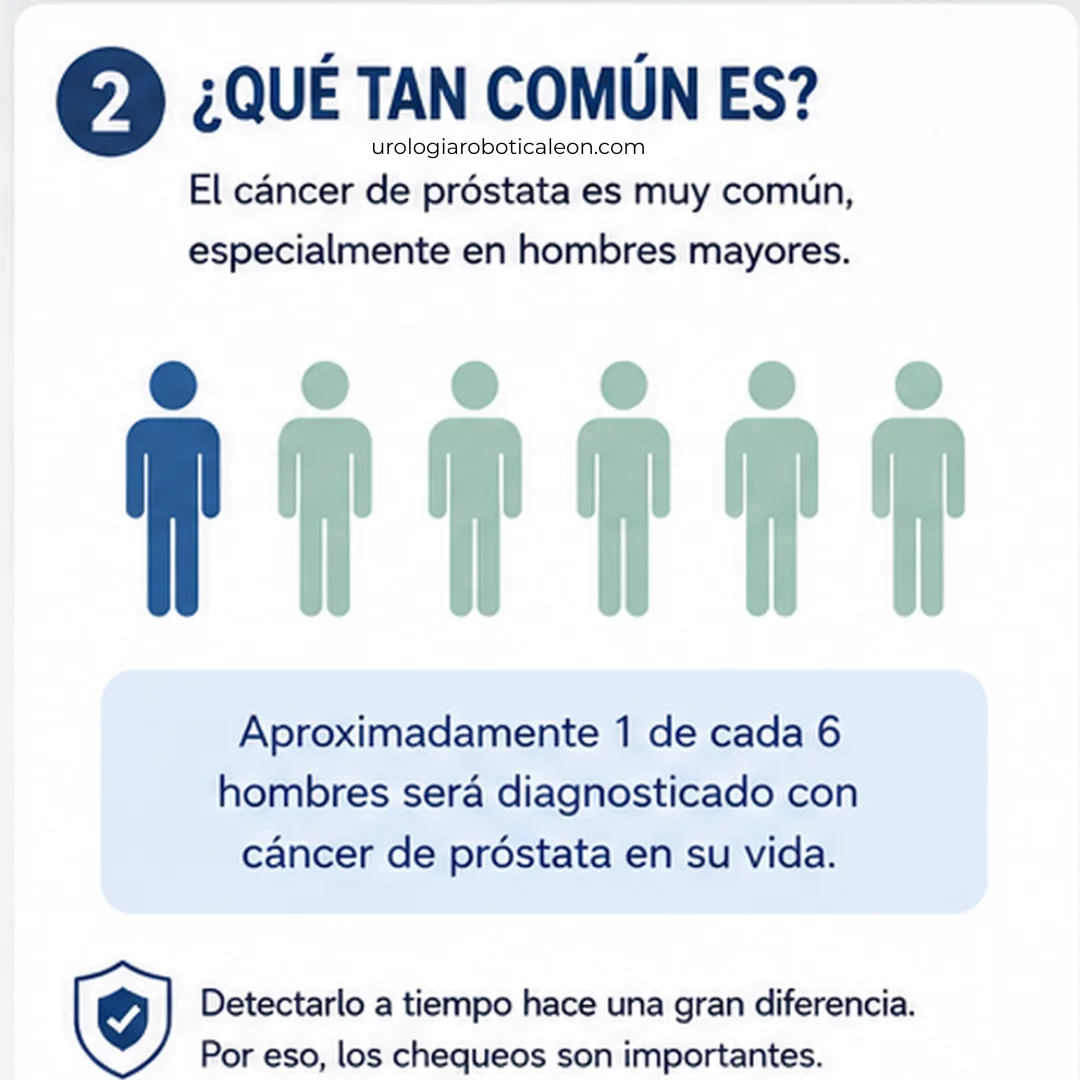
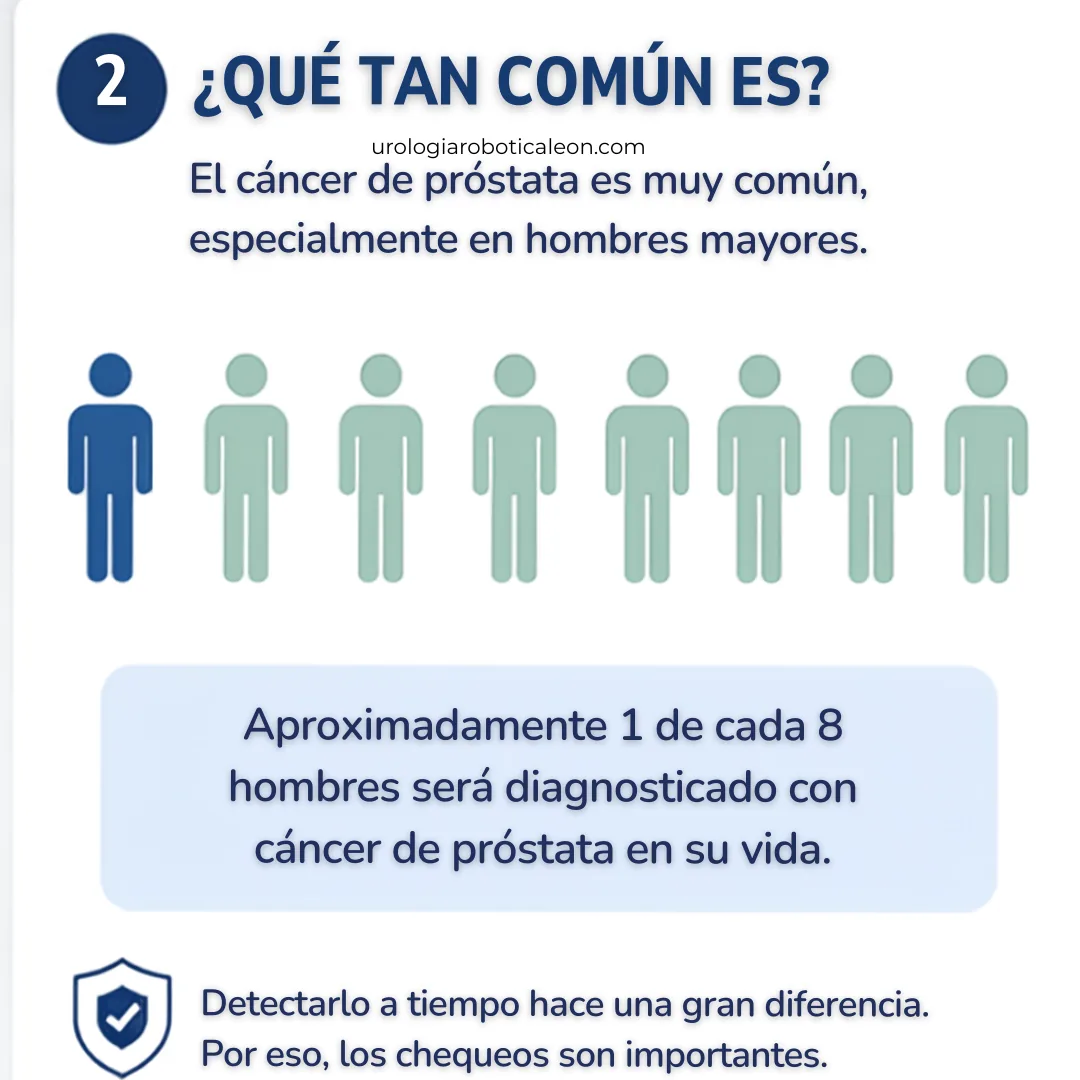
fix(contenido): infografía de incidencia corregida (1 de cada 8)
Reemplaza que-tan-comun-es.webp con la versión corregida (8 figuras,
"1 de cada 8") y añade su referencia al final de la sección Factores
de riesgo en cáncer de próstata.

diff --git a/src/app/cancer-prostata/CancerProstataContent.tsx b/src/app/cancer-prostata/CancerProstataContent.tsx
@@ -262,6 +262,13 @@ export default function CancerProstataContent() {
                 </Card>
               ))}
             </div>
+            <Image
+              src="/images/cancer-prostata/que-tan-comun-es.webp"
+              alt="Infografía: qué tan común es el cáncer de próstata — aproximadamente 1 de cada 8 hombres será diagnosticado en su vida, por eso los chequeos son importantes"
+              width={1080}
+              height={1080}
+              className="mt-10 rounded-2xl border border-slate-200 shadow-sm w-full max-w-xl mx-auto h-auto"
+            />
           </div>
         </section>
 